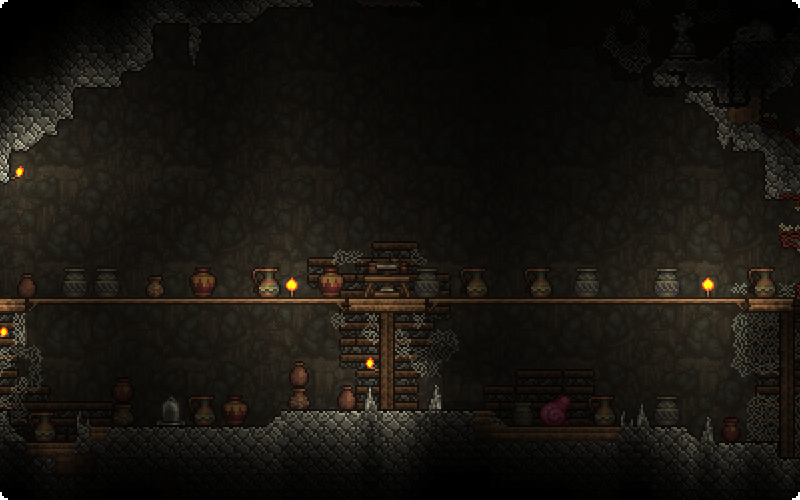
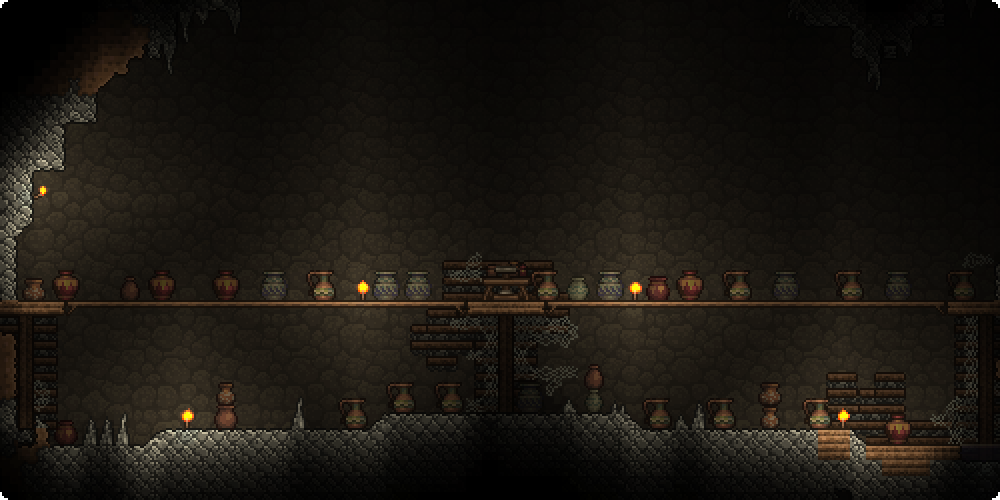
a bunch of fixes, increase width of gen config ui

Changed region(s): [[0.0, 0.09, 1.0, 0.99]]

diff --git a/Common/WorldGeneration/GenConfiguration/GenConfigUIState.cs b/Common/WorldGeneration/GenConfiguration/GenConfigUIState.cs
@@ -1,5 +1,6 @@
 using ReLogic.Graphics;
 using SpiritReforged.Common.MathHelpers;
+using SpiritReforged.Common.ModCompat;
 using SpiritReforged.Common.UI.Elements;
 using SpiritReforged.Common.Visuals;
 using System.IO;
@@ -141,7 +142,7 @@ internal class GenConfigUIState(Action returnAction) : UIState
 			pageConfig = -1;
 
 		mainPanel = page.PageInfo.PageBack is { } value ? new UIImage(value.Value) { Color = new Color(160, 160, 160) } : new UIPanel();
-		mainPanel.Width = StyleDimension.FromPixels(800);
+		mainPanel.Width = StyleDimension.FromPixels(1000);
 		mainPanel.Height = StyleDimension.FromPixels(500);
 		mainPanel.Top = StyleDimension.FromPixels(20);
 		mainPanel.HAlign = 0.5f;
@@ -643,11 +644,11 @@ internal class GenConfigUIState(Action returnAction) : UIState
 	{
 		UIButton<string> setMax = new(Language.GetTextValue("Mods.SpiritReforged.GenConfigs.UI.Max"))
 		{
-			Width = StyleDimension.FromPixels(80),
+			Width = StyleDimension.FromPixels(120),
 			Height = StyleDimension.FromPixels(50),
 			HAlign = 0.5f,
 			VAlign = 1f,
-			Left = StyleDimension.FromPixels(168)
+			Left = StyleDimension.FromPixels(198)
 		};
 
 		setMax.OnUpdate += _ =>
@@ -702,11 +703,11 @@ internal class GenConfigUIState(Action returnAction) : UIState
 
 		UIButton<string> setMin = new(Language.GetTextValue("Mods.SpiritReforged.GenConfigs.UI.Min"))
 		{
-			Width = StyleDimension.FromPixels(80),
+			Width = StyleDimension.FromPixels(120),
 			Height = StyleDimension.FromPixels(50),
 			HAlign = 0.5f,
 			VAlign = 1f,
-			Left = StyleDimension.FromPixels(-168)
+			Left = StyleDimension.FromPixels(-198)
 		};
 
 		setMin.OnUpdate += _ =>
@@ -761,7 +762,7 @@ internal class GenConfigUIState(Action returnAction) : UIState
 
 		presetButton = new(GetConfigPresetDisplay(page))
 		{
-			Width = StyleDimension.FromPixels(234),
+			Width = StyleDimension.FromPixels(264),
 			Height = StyleDimension.FromPixels(50),
 			HAlign = 0.5f,
 			VAlign = 1f,
@@ -797,7 +798,7 @@ internal class GenConfigUIState(Action returnAction) : UIState
 
 		UIButton<string> resetButton = new(Language.GetTextValue("Mods.SpiritReforged.GenConfigs.UI.ResetAll"))
 		{
-			Width = StyleDimension.FromPixels(80),
+			Width = StyleDimension.FromPixels(120),
 			Height = StyleDimension.FromPixels(50),
 			HAlign = 0,
 			VAlign = 1f,

diff --git a/Content/Ziggurat/Walls/RedSandstoneBrickForegroundWall.cs b/Content/Ziggurat/Walls/RedSandstoneBrickForegroundWall.cs
@@ -1,6 +1,7 @@
 using SpiritReforged.Common;
 using SpiritReforged.Common.ItemCommon;
 using SpiritReforged.Common.WallCommon;
+using SpiritReforged.Content.Ziggurat.Tiles;
 using TileHelper.Common;
 
 namespace SpiritReforged.Content.Ziggurat.Walls;
@@ -12,10 +13,19 @@ public class RedSandstoneBrickForegroundWall : ModWall, ILoadItem
 	public override void SetStaticDefaults()
 	{
 		SpiritSets.WallBlocksLight[Type] = true;
+		SpiritSets.ForegroundMergeFunc[Type] = TileIsMergeable;
+
 		Main.wallHouse[Type] = false;
 		DustType = DustID.DynastyShingle_Red;
 
 		AddMapEntry(new(150, 70, 40));
+	}
+
+	private static bool TileIsMergeable(int i, int j)
+	{
+		int id = Main.tile[i, j].TileType;
+		return id == ModContent.TileType<RedSandstoneBrick>() || id == ModContent.TileType<RedSandstoneBrickCracked>() || id == ModContent.TileType<RedSandstoneSlab>()
+			|| id == ModContent.TileType<GildedRedSandstone>();
 	}
 
 	public override void NumDust(int i, int j, bool fail, ref int num) => num = fail ? 1 : 3;

diff --git a/Common/WallCommon/ForegroundWallLoader.cs b/Common/WallCommon/ForegroundWallLoader.cs
@@ -1,4 +1,5 @@
 using SpiritReforged.Common.TileCommon;
+using SpiritReforged.Content.Ziggurat.Tiles;
 using Terraria.DataStructures;
 using Terraria.Graphics.Light;
 
@@ -60,7 +61,7 @@ public sealed class ForegroundWallLoader : ILoadable
 
 		return WallMethods.GetWallFrame(tile);
 
-		bool IsFull(int i, int j) => Framing.GetTileSafely(i, j).WallType == type || WorldGen.SolidTile(i, j);
+		bool IsFull(int i, int j) => Framing.GetTileSafely(i, j).WallType == type || WorldGen.SolidTile(i, j) && SpiritSets.ForegroundMergeFunc[type]?.Invoke(i, j) is not false;
 	}
 
 	private static void ResetPoints(On_Main.orig_RenderWalls orig, Main self)

diff --git a/Common/SpiritSets.cs b/Common/SpiritSets.cs
@@ -53,4 +53,7 @@ public class SpiritSets : ModSystem
 
 	/// <summary> Whether this type blocks light. </summary>
 	public static readonly bool[] WallBlocksLight = WallFactory.CreateBoolSet();
+
+	/// <summary> The rules on which solid tiles this foreground wall can merge with, if any. </summary>
+	public static readonly Func<int, int, bool>[] ForegroundMergeFunc = WallFactory.CreateCustomSet<Func<int, int, bool>>(null);
 }

diff --git a/Content/Ziggurat/NPCs/Robber/LootBag.cs b/Content/Ziggurat/NPCs/Robber/LootBag.cs
@@ -222,6 +222,9 @@ public class LootBag : ModNPC
 				npcLoot.AddCommon(aquamarine.Type, 3, 1, 2);
 		}
 
+		if (CrossMod.Verdant.Enabled && CrossMod.Verdant.TryFind("AquamarineItem", out ModItem verdantAquamarine))
+			npcLoot.AddCommon(verdantAquamarine.Type, 3, 1, 2);
+
 		LeadingConditionRule rule = new(new InZiggurat());
 		rule.OnSuccess(ItemDropRule.Common(AutoContent.ItemType<CarvedLapis>(), 1, 10, 35));
 

diff --git a/Content/Forest/Stargrass/StargrassTreeGlowEffects.cs b/Content/Forest/Stargrass/StargrassTreeGlowEffects.cs
@@ -96,7 +96,7 @@ internal class StargrassTreeGlowEffects : GlobalTile, IPostDrawTree
 				return;
 
 			Texture2D treeBranchTexture = _branchTexture.Value;
-			Vector2 position = baseDrawPos;
+			Vector2 position = baseDrawPos - new Vector2(16, 32);
 			float rotation = 0f;
 
 			if (tile.WallType <= WallID.None)
